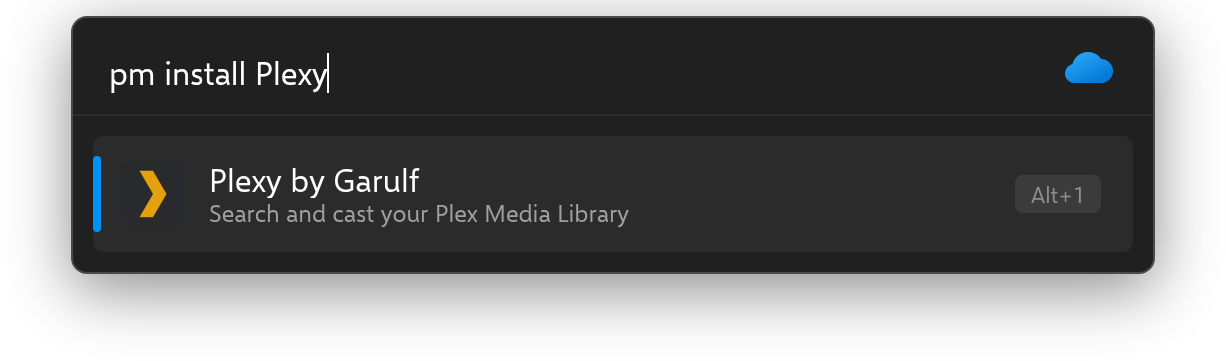
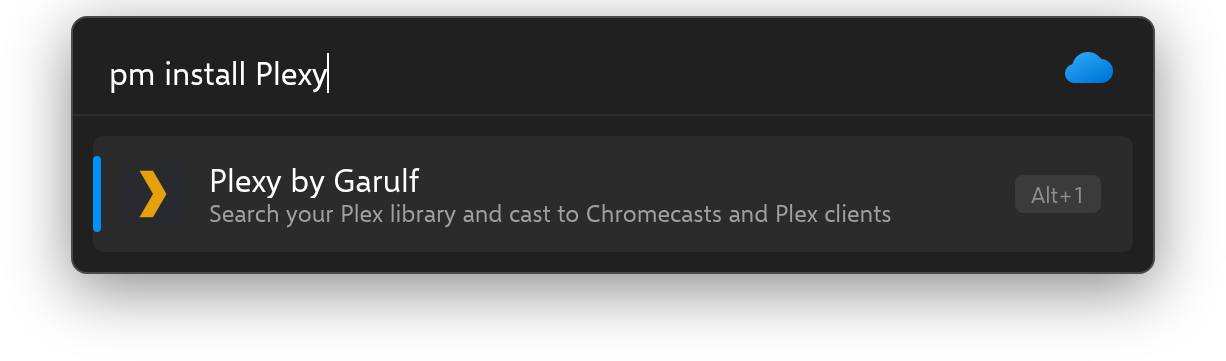
Add Chromecast casting and preview panel
- Discover Chromecasts via pychromecast and list them in the context menu
- Cast in the background and confirm with a notification
- Resume casting from the last viewed position
- Show poster and details in Flow's preview panel (F1)
- Build a pure-python zeroconf wheel in the release workflow
- Update README, changelog and plugin description

Changed region(s): [[0.217, 0.5485, 0.7439, 0.6399]]

diff --git a/src/plugin/__main__.py b/src/plugin/__main__.py
@@ -1,7 +1,12 @@
 import asyncio
+import ipaddress
+import socket
 import tempfile
+import threading
 from functools import lru_cache, wraps
 from pathlib import Path
+from urllib.parse import urlparse
+from uuid import UUID
 
 from plexapi.base import PlexPartialObject
 from plexapi.exceptions import BadRequest, Unauthorized
@@ -9,14 +14,21 @@ from plexapi.playqueue import PlayQueue
 from plexapi.server import PlexServer
 from plexapi.utils import download
 from pyflowlauncher import Plugin, Result
+from pyflowlauncher.models.result import PreviewInfo
 from requests.exceptions import RequestException
 
 plugin = Plugin()
 
 ICON = str(Path(__file__).resolve().parent.parent / "icon.png")
+CAST_ICON = str(Path(__file__).resolve().parent.parent / "cast.png")
 THUMB_DIR = Path(tempfile.gettempdir()) / "Plexy"
 DEFAULT_BASEURL = "http://localhost:32400"
 TIMEOUT = 30
+CAST_DISCOVERY_WAIT = 3
+CAST_TIMEOUT = 10
+CAST_PORT = 8009
+# "ca" capability bit a cast device advertises over mDNS when it has a screen
+CAST_VIDEO_OUT = 1
 
 
 def threaded(func):
@@ -27,7 +39,7 @@ def threaded(func):
     return wrapper
 
 
-@lru_cache(maxsize=1)
+@lru_cache(maxsize=2)
 def _connect(baseurl: str, token: str) -> PlexServer:
     return PlexServer(baseurl, token, timeout=TIMEOUT)
 
@@ -38,7 +50,90 @@ def server() -> PlexServer:
     return _connect(baseurl, token)
 
 
+_cast_browser = None
+_cast_browser_lock = threading.Lock()
+
+
+def cast_browser():
+    """Browse for Chromecasts in the background; found devices accumulate in browser.devices."""
+    global _cast_browser
+    with _cast_browser_lock:
+        if _cast_browser is None:
+            try:
+                from pychromecast.discovery import CastBrowser, SimpleCastListener
+                from zeroconf import Zeroconf
+
+                browser = CastBrowser(SimpleCastListener(), Zeroconf())
+                browser.start_discovery()
+                _cast_browser = browser
+            except Exception:  # casting is optional, e.g. the mDNS port may be unavailable
+                plugin.logger.exception("Chromecast discovery failed")
+        return _cast_browser
+
+
+def supports_video(device, zc) -> bool:
+    from pychromecast.const import CAST_TYPE_CHROMECAST
+    from pychromecast.models import MDNSServiceInfo
+    from zeroconf import ServiceInfo
+
+    for service in device.services:
+        if isinstance(service, MDNSServiceInfo):
+            info = ServiceInfo("_googlecast._tcp.local.", service.name)
+            capabilities = info.properties.get(b"ca") if info.load_from_cache(zc) else None
+            if capabilities and capabilities.isdigit():
+                return bool(int(capabilities) & CAST_VIDEO_OUT)
+    # pychromecast only knows the type of models in its table; don't hide devices it doesn't
+    return device.cast_type in (CAST_TYPE_CHROMECAST, None)
+
+
+def cast_subtitle(model) -> str:
+    if not model:
+        return "Chromecast"
+    # avoid "Chromecast · Chromecast Ultra"
+    return model if "chromecast" in model.lower() else f"Chromecast · {model}"
+
+
+async def cast_devices(video: bool) -> list:
+    browser = await asyncio.to_thread(cast_browser)
+    if browser is None:
+        return []
+    # discovery starts on the first query, so give it a moment if nothing has answered yet
+    for _ in range(CAST_DISCOVERY_WAIT * 10):
+        if browser.devices:
+            break
+        await asyncio.sleep(0.1)
+    devices = list(browser.devices.values())
+    if video:
+        devices = [device for device in devices if supports_video(device, browser.zc)]
+    return sorted(devices, key=lambda device: device.friendly_name or "")
+
+
+def server_reachable_from(host: str) -> PlexServer:
+    """The Chromecast streams from the server itself, so it can't use a localhost URL."""
+    plex = server()
+    url = urlparse(plex._baseurl)
+    try:
+        loopback = ipaddress.ip_address(url.hostname).is_loopback
+    except ValueError:
+        loopback = url.hostname == "localhost"
+    if not loopback:
+        return plex
+    # the address this PC uses to reach the Chromecast is one the Chromecast can reach back
+    with socket.socket(socket.AF_INET, socket.SOCK_DGRAM) as sock:
+        sock.connect((host, CAST_PORT))
+        address = sock.getsockname()[0]
+    return _connect(f"{url.scheme}://{address}:{url.port or 32400}", plex._token)
+
+
 def find_media(plex: PlexServer, query: str) -> list:
+    items = _search(plex, query)
+    for item in items:
+        # search results already hold what we display; don't refetch each item for missing fields
+        item._autoReload = False
+    return items
+
+
+def _search(plex: PlexServer, query: str) -> list:
     query = query.strip().lower()
     if not query:
         return plex.library.onDeck()
@@ -58,27 +153,55 @@ def find_media(plex: PlexServer, query: str) -> list:
     return [item for item in items if isinstance(item, PlexPartialObject)]
 
 
-def download_thumb(plex: PlexServer, item) -> str:
-    path = THUMB_DIR / f"{item.ratingKey}.jpg"
+def download_image(plex: PlexServer, item, name: str, width: int, height: int):
+    path = THUMB_DIR / name
     if path.exists():
         return str(path)
     thumb = item.grandparentThumb if item.type == "episode" else getattr(item, "thumb", None)
     if not thumb:
-        return ICON
+        return None
     try:
         download(
-            plex.transcodeImage(thumb, 100, 100),
+            plex.transcodeImage(thumb, height, width),
             plex._token,
             filename=path.name,
             savepath=str(THUMB_DIR),
         )
     except (RequestException, OSError):
-        return ICON
+        return None
     return str(path)
+
+
+def describe(item) -> str:
+    """Details line plus summary for the preview panel, e.g. "2010 · 1h 43m · PG"."""
+    details = []
+    if item.type == "episode":
+        details.append(f"{item.grandparentTitle} {item.seasonEpisode.upper()}")
+    elif item.type in ("album", "track"):
+        details.append(getattr(item, "grandparentTitle", None) or getattr(item, "parentTitle", None))
+    details.append(getattr(item, "year", None))
+    duration = getattr(item, "duration", None)
+    if duration:
+        hours, minutes = divmod(round(duration / 60000), 60)
+        details.append(f"{hours}h {minutes}m" if hours else f"{minutes}m")
+    details.append(getattr(item, "contentRating", None))
+    line = " · ".join(str(detail) for detail in details if detail)
+    summary = getattr(item, "summary", "").strip()
+    return "\n\n".join(part for part in (line, summary) if part)
+
+
+def preview(item, poster) -> PreviewInfo:
+    return PreviewInfo(
+        PreviewImagePath=poster,
+        Description=describe(item),
+        IsMedia=poster is not None,
+        PreviewDeligate="",
+    )
 
 
 @plugin.on_method
 async def query(query: str):
+    asyncio.get_running_loop().run_in_executor(None, cast_browser)
     try:
         plex = await asyncio.to_thread(server)
         items = await asyncio.to_thread(find_media, plex, query)
@@ -92,14 +215,21 @@ async def query(query: str):
     if not items:
         yield Result(title="No Results Found!", icon=ICON)
         return
-    thumbs = await asyncio.gather(
-        *(asyncio.to_thread(download_thumb, plex, item) for item in items)
-    )
-    for index, (item, thumb) in enumerate(zip(items, thumbs)):
+    images = await asyncio.gather(*(
+        asyncio.to_thread(download_image, plex, item, name, width, height)
+        for item in items
+        for name, width, height in (
+            (f"{item.ratingKey}.jpg", 100, 100),
+            (f"{item.ratingKey}-poster.jpg", 400, 600),
+        )
+    ))
+    for index, item in enumerate(items):
+        thumb, poster = images[2 * index:2 * index + 2]
         yield Result(
             title=item.title,
             subtitle=" ".join(getattr(item, "summary", "").split()),
-            icon=thumb,
+            icon=thumb or ICON,
+            preview=preview(item, poster),
             # keep Plex's relevance order
             score=len(items) - index,
             context_data=[item.ratingKey],
@@ -116,12 +246,21 @@ async def context_menu(data: list):
         asyncio.to_thread(plex.clients),
         asyncio.to_thread(plex.fetchItem, key),
     )
+    # speakers can take music, but anything else needs a screen
+    media_type = getattr(media, "listType", None) or getattr(media, "playlistType", None)
+    devices = await cast_devices(video=media_type != "audio")
     for client in clients:
         yield Result(
             title=client.title,
             subtitle=client.product,
             icon=ICON,
-        ).add_action(play, [client.title, key])
+        ).add_action(play, [client.title, key, media.title])
+    for device in devices:
+        yield Result(
+            title=device.friendly_name,
+            subtitle=cast_subtitle(device.model_name),
+            icon=CAST_ICON,
+        ).add_action(cast, [str(device.uuid), key, media.title])
     watched = getattr(media, "isPlayed", None)
     if watched is True:
         yield Result(title="Mark Unwatched", icon=ICON).add_action(mark_unwatched, [key])
@@ -129,14 +268,64 @@ async def context_menu(data: list):
         yield Result(title="Mark Watched", icon=ICON).add_action(mark_watched, [key])
 
 
-@plugin.on_method
-@threaded
-def play(client_name: str, key: int):
+_background_tasks = set()
+
+
+def in_background(coro) -> None:
+    """Answer the action straight away so Flow isn't left waiting on the cast."""
+    task = asyncio.create_task(coro)
+    _background_tasks.add(task)
+    task.add_done_callback(_background_tasks.discard)
+
+
+async def send_to(name: str, title: str, func, *args) -> None:
+    try:
+        await asyncio.to_thread(func, *args)
+    except Exception as error:
+        plugin.logger.exception("Casting to %s failed", name)
+        message = (f"Couldn't cast to {name}", str(error) or type(error).__name__)
+    else:
+        message = (f"Casting to {name}", title)
+    await plugin.launcher.api.invoke(plugin.launcher.api.show_msg(*message, ICON))
+
+
+def _play(client_name: str, key: int):
     plex = server()
     client = plex.client(client_name)
     media = plex.fetchItem(key)
     queue = PlayQueue.create(plex, media, continuous=True)
     client.playMedia(queue, offset=getattr(media, "viewOffset", 0) or 0)
+
+
+@plugin.on_method
+async def play(client_name: str, key: int, title: str):
+    in_background(send_to(client_name, title, _play, client_name, key))
+
+
+def _cast(device, key: int):
+    import pychromecast
+    from pychromecast.controllers.plex import PlexController
+
+    if device is None:
+        raise LookupError("The Chromecast is no longer on the network.")
+    media = server_reachable_from(device.host).fetchItem(key)
+    chromecast = pychromecast.get_chromecast_from_cast_info(device, cast_browser().zc)
+    try:
+        chromecast.wait(timeout=CAST_TIMEOUT)
+        controller = PlexController()
+        chromecast.register_handler(controller)
+        offset = (getattr(media, "viewOffset", 0) or 0) // 1000
+        controller.block_until_playing(media, timeout=CAST_TIMEOUT, offset=offset)
+    finally:
+        # also stops the connection thread, which otherwise retries forever
+        chromecast.disconnect(timeout=CAST_TIMEOUT)
+
+
+@plugin.on_method
+async def cast(uuid: str, key: int, title: str):
+    device = cast_browser().devices.get(UUID(uuid))
+    name = device.friendly_name if device else "Chromecast"
+    in_background(send_to(name, title, _cast, device, key))
 
 
 @plugin.on_method

diff --git a/README.md b/README.md
@@ -3,7 +3,7 @@
 
 # Plexy
 
-Search and cast your Plex library with Flow Launcher.
+Search your Plex library and cast it to a Chromecast or Plex client, straight from Flow Launcher.
 
 [![CI](https://img.shields.io/github/actions/workflow/status/Garulf/Plexy/release.yml)](https://github.com/Garulf/Plexy/actions/workflows/release.yml) [![Release](https://img.shields.io/github/v/release/Garulf/Plexy)](https://github.com/Garulf/Plexy/releases/latest)
 
@@ -11,13 +11,21 @@ Search and cast your Plex library with Flow Launcher.
 
 ## Features
 
+* **Cast to your TV in two keystrokes.** Find a movie, press <kbd>Shift</kbd>+<kbd>Enter</kbd>, pick a Chromecast.
+  No phone, no remote, no Plex app to open.
+* **Chromecasts found automatically.** Every Chromecast and Google TV on your network shows up on its own;
+  speakers join in for music.
+* **Plex clients too.** Send media to any Plex app that's open on your network.
+* **Picks up where you left off.** Casting resumes from your last position.
 * **Search your whole library.** Movies, shows, episodes, music and collections from one search box.
 * **Filter by library.** Prefix a search with a library name to search only that library.
+* **Preview panel.** Press `F1` for the poster, year, runtime, rating and summary.
 * **On Deck.** An empty search lists what you're in the middle of watching.
-* **Cast to any client.** Send media to any available Plex client from the context menu.
 * **Track progress.** Mark items watched or unwatched without opening Plex.
 
 ## Usage
+
+### Search
 
 Type `pl` followed by a search term:
 
@@ -42,8 +50,21 @@ pl tvshows: the witcher
 
 ![Plexy searching the TV Shows library for "the witcher"](.github/assets/library-filter-tv.png)
 
-Selecting a result opens it in Plex Web. Open the context menu on a result (<kbd>Shift</kbd>+<kbd>Enter</kbd>)
-to cast it to a Plex client, or to mark it watched or unwatched.
+Selecting a result opens it in Plex Web.
+
+### Cast to a Chromecast or Plex client
+
+Open the context menu on any result with <kbd>Shift</kbd>+<kbd>Enter</kbd> and pick where to play it:
+
+![Plexy context menu listing Chromecasts and Plex clients to cast to](.github/assets/cast.png)
+
+Plexy confirms with a notification once it's on its way, and the context menu closes straight away so you're
+not left waiting. The same menu lets you mark the item watched or unwatched.
+
+Chromecasts are found automatically on your local network. Videos only go to devices with a screen; speakers
+and speaker groups appear for music. Casting launches the Plex app on the Chromecast, which then streams
+straight from your server, so the server must be reachable from the Chromecast. If your URL setting uses
+`localhost`, Plexy hands the Chromecast this PC's network address instead.
 
 ## Installation
 
@@ -79,6 +100,8 @@ selecting the error result opens the settings.
 - Switch to the python_v2 plugin runtime with pyflowlauncher (Wox is no longer supported)
 - Update plexapi to 4.18.3
 - Reuse the Plex connection between searches and download thumbnails in parallel
+- Show posters and details in Flow Launcher's preview panel (F1)
+- Cast to Chromecasts on your network from the context menu
 - Open the plugin settings from the connection error result
 - Generate the README with readwright
 

diff --git a/CHANGELOG.md b/CHANGELOG.md
@@ -7,6 +7,8 @@ All notable changes to this project are documented here. Entries are taken from 
 - Switch to the python_v2 plugin runtime with pyflowlauncher (Wox is no longer supported)
 - Update plexapi to 4.18.3
 - Reuse the Plex connection between searches and download thumbnails in parallel
+- Show posters and details in Flow Launcher's preview panel (F1)
+- Cast to Chromecasts on your network from the context menu
 - Open the plugin settings from the connection error result
 - Generate the README with readwright
 
